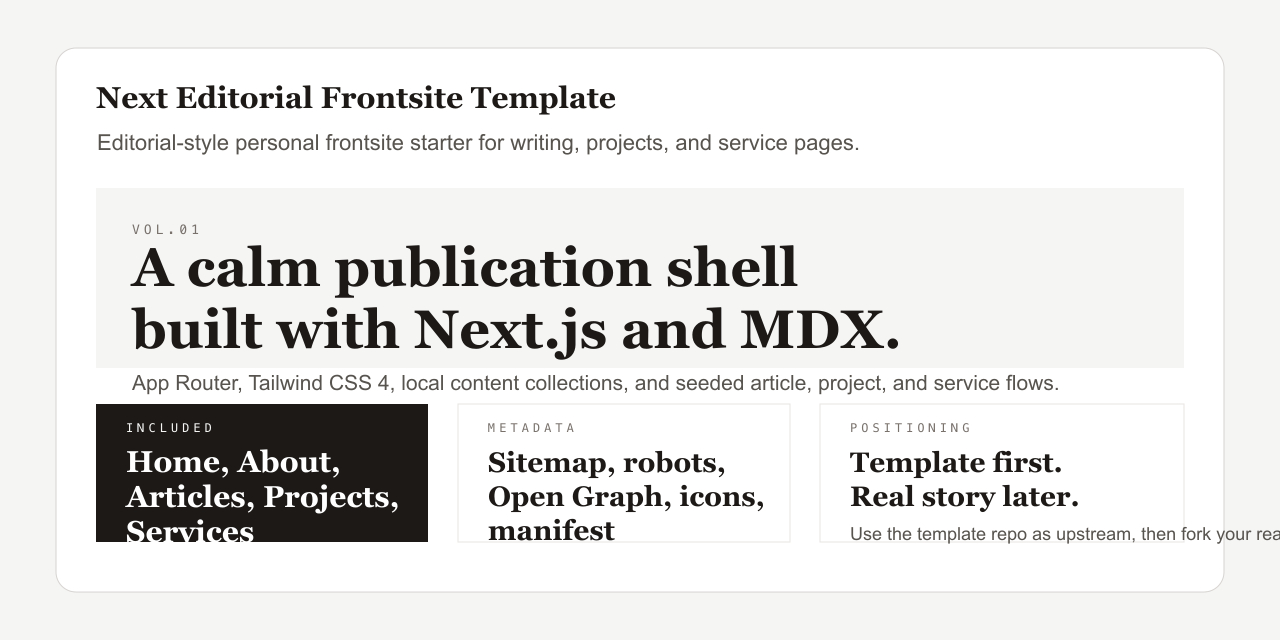
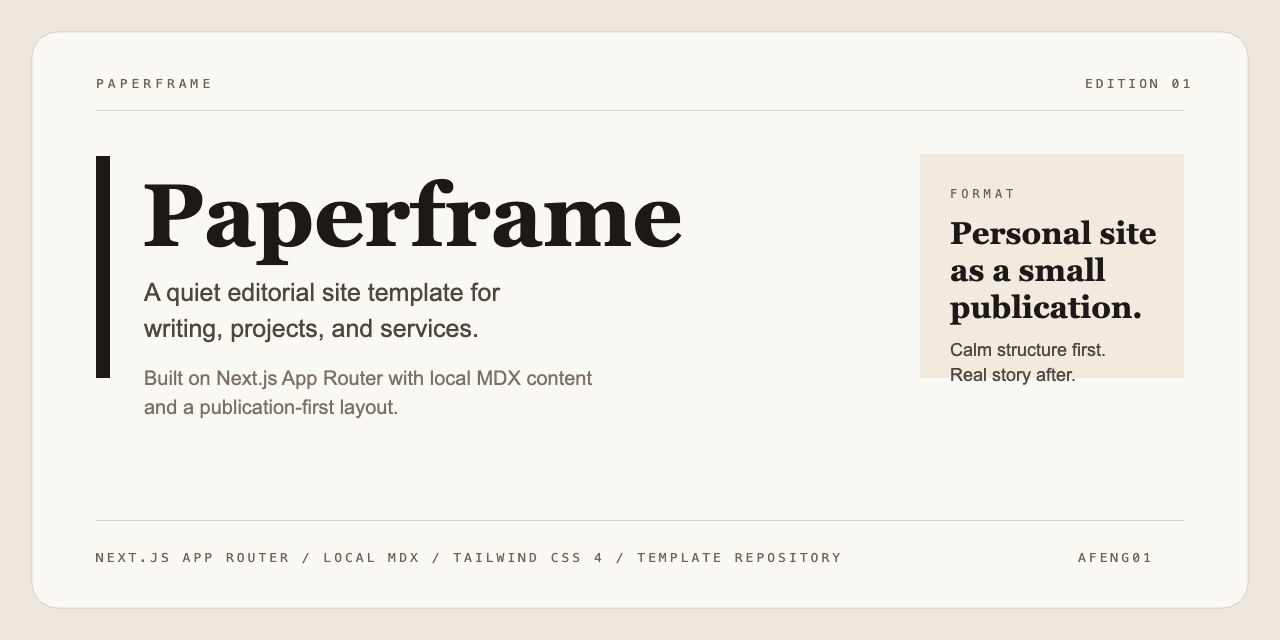
chore: rename template to paperframe

diff --git a/src/lib/site-config.ts b/src/lib/site-config.ts
@@ -1,6 +1,6 @@
 export const siteConfig = {
-  name: "Editorial Frontsite",
-  shortName: "Frontsite",
+  name: "Paperframe",
+  shortName: "Paperframe",
   description:
     "An editorial-style personal site template built with Next.js App Router, Tailwind CSS, and local MDX collections.",
   url: "https://example.com",

diff --git a/src/content/site.ts b/src/content/site.ts
@@ -32,7 +32,7 @@ export const siteContent = siteContentSchema.parse({
   quote: {
     label: "Template note",
     value: "Shape the shell well enough that real content only needs files, not rewrites.",
-    author: "Editorial Frontsite",
+    author: "Paperframe",
   },
   contact: {
     title: "Swap in your details",

diff --git a/README.md b/README.md
@@ -1,12 +1,12 @@
-# Next Editorial Frontsite Template
+# Paperframe
 
-Editorial-style personal frontsite starter built with Next.js App Router,
-Tailwind CSS, and local MDX collections.
+Editorial-style personal site template built with Next.js App Router, Tailwind
+CSS, and local MDX collections.
 
-![Template preview](docs/assets/template-preview.svg)
+![Paperframe preview](docs/assets/template-preview.svg)
 
-This template is designed for people who want a public site that feels more
-like a calm publication than a generic startup landing page.
+Paperframe is designed for people who want a public site that feels more like a
+small publication than a generic startup landing page.
 
 ## Included surfaces
 